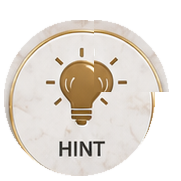
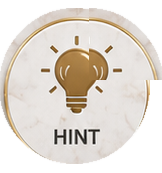
Mate in Five v0.3.1: bottom buttons render whole and uniform
- appearance:none on control buttons — native button chrome was clipping the art to its own rounded shape (iOS)
- hint button re-framed to the same 162x173 circle geometry as its siblings (was rendering smaller)
- cash button face properly rebuilt: per-row tone regeneration + dark-ink inpaint; gold rim preserved
- all four buttons share one width

diff --git a/mate-in-five/index.html b/mate-in-five/index.html
@@ -73,8 +73,9 @@
   /* ---------- bottom controls ---------- */
   #botBar{position:absolute;left:0;right:0;bottom:max(12px,env(safe-area-inset-bottom));
     display:none;justify-content:center;gap:14px;padding:0 12px;}
-  .cbtn{pointer-events:auto;width:clamp(62px,17vw,78px);border:none;cursor:pointer;position:relative;
-    background:none;padding:0;transition:transform .1s;}
+  .cbtn{pointer-events:auto;width:clamp(64px,17.5vw,80px);border:none;cursor:pointer;position:relative;
+    background:none;padding:0;margin:0;transition:transform .1s;
+    -webkit-appearance:none;appearance:none;overflow:visible;border-radius:0;}
   .cbtn:active{transform:scale(.93);}
   .cbtn svg,.cbtn .cl{display:none;}  /* icons + labels are baked into the art */
   .cbtn img{display:block;width:100%;height:auto;pointer-events:none;}
@@ -187,7 +188,7 @@
     <div id="botBar">
       <button class="cbtn" id="btnCash"><img src="ui/cash_button.webp" alt="Cash out"><span id="cashIco">$</span><span id="cashTxt">CASH OUT</span></button>
       <button class="cbtn" id="btnUndo"><img src="ui/08_undo_button.webp" alt="Undo"></button>
-      <button class="cbtn" id="btnHint" style="width:clamp(66px,18vw,84px);"><img src="ui/hint_button.webp" alt="Hint"><span id="hintBadge">−1,000</span></button>
+      <button class="cbtn" id="btnHint"><img src="ui/hint_button.webp" alt="Hint"><span id="hintBadge">−1,000</span></button>
       <button class="cbtn" id="btnMute"><img src="ui/10_mute_button.webp" alt="Mute"></button>
     </div>
   </div>
@@ -203,7 +204,7 @@
       <button class="gbtn" id="btnPlay">PLAY</button>
       <div id="best">BEST <b id="bestV">0</b></div>
       <button class="sbtn" id="btnArcade">← ARCADE</button>
-      <div id="brand">CRASHARCADE · MATE IN FIVE v0.3.0</div>
+      <div id="brand">CRASHARCADE · MATE IN FIVE v0.3.1</div>
     </div>
   </div>
 
@@ -256,7 +257,7 @@ window.THREE=THREE; // console diagnostics
 /* =========================================================================
    CFG — all balance values
    ========================================================================= */
-const VERSION='0.3.0';
+const VERSION='0.3.1';
 const CFG={
   roundTime:120,          // seconds
   maxMoves:5,